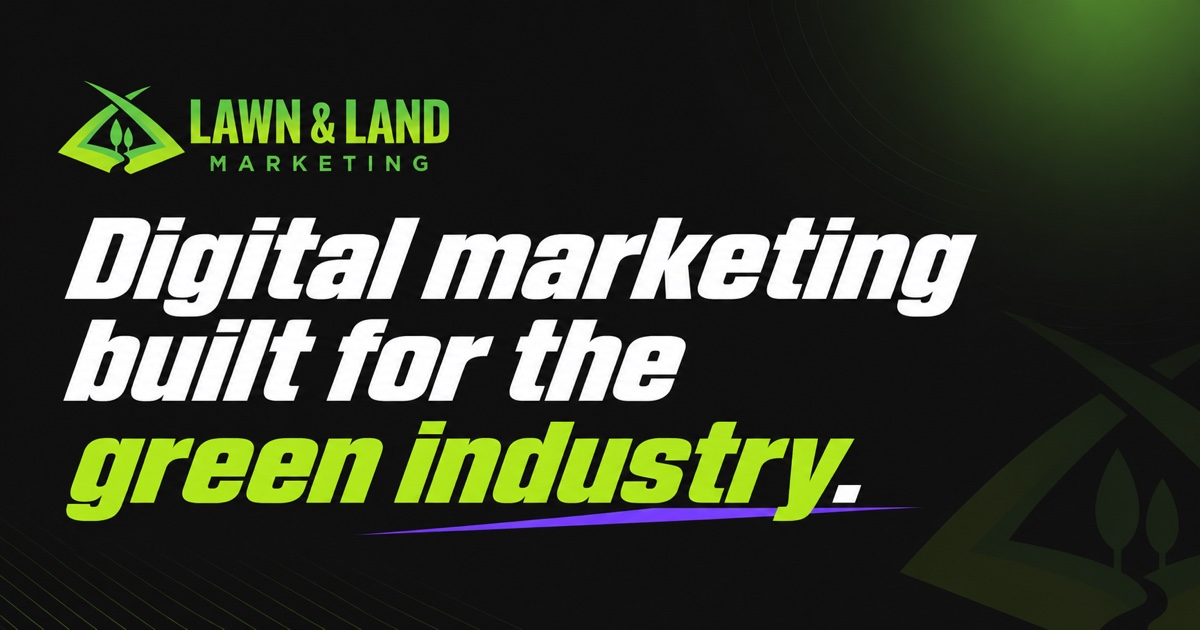
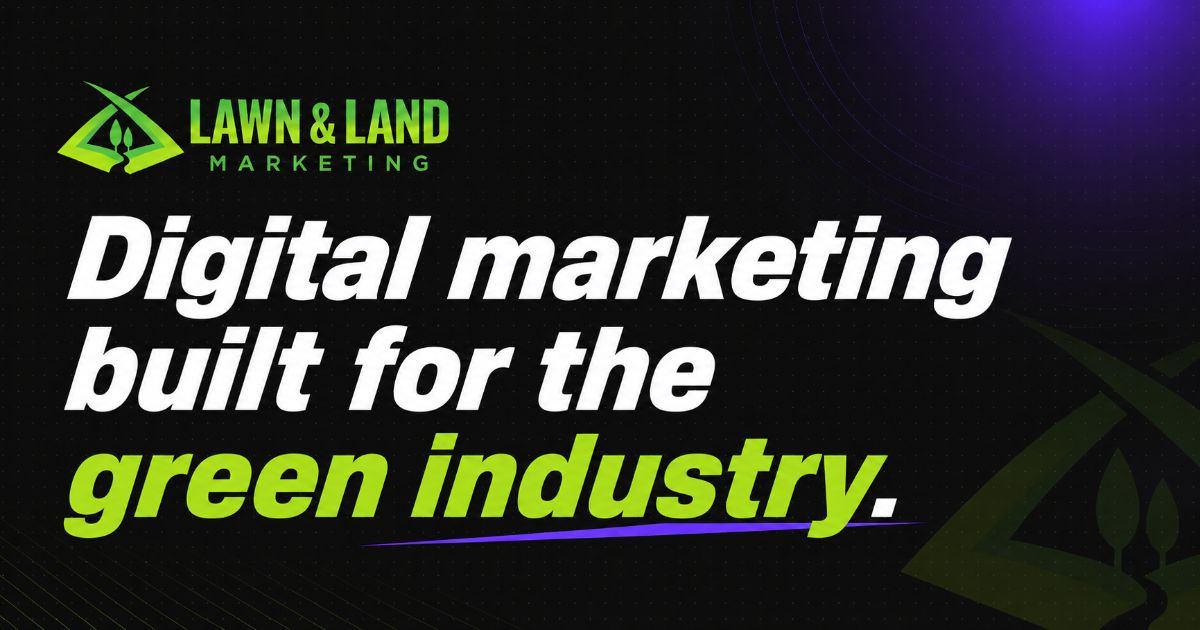
Swap og:image to the updated brand card + cache-bust (?v=2)
Owner provided a refined share card (same 1200x630 layout, richer Twilight-purple glow +
dot texture). Already optimized at 88KB; copied in as assets/images/og-share.jpg with no
re-encode. Bumped the og:image + twitter:image URL to ?v=2 across all 33 pages so social
platforms and any cached link previews fetch the new card instead of the old one.

diff --git a/about/index.html b/about/index.html
@@ -12,11 +12,11 @@
   <meta property="og:type" content="website">
   <meta property="og:url" content="https://new.lawnlab.dev/about/">
   <meta name="twitter:card" content="summary_large_image">
-  <meta property="og:image" content="https://new.lawnlab.dev/assets/images/og-share.jpg">
+  <meta property="og:image" content="https://new.lawnlab.dev/assets/images/og-share.jpg?v=2">
   <meta property="og:image:width" content="1200">
   <meta property="og:image:height" content="630">
   <meta property="og:image:alt" content="Lawn &amp; Land Marketing: digital marketing built for the green industry.">
-  <meta name="twitter:image" content="https://new.lawnlab.dev/assets/images/og-share.jpg">
+  <meta name="twitter:image" content="https://new.lawnlab.dev/assets/images/og-share.jpg?v=2">
   <meta name="twitter:title" content="About Lawn &amp; Land Marketing | Built Only for the Green Industry">
   <meta name="twitter:description" content="The green-industry marketing agency built for the outdoor trades, from lawn and landscape to land clearing, excavation, and septic. Meet the owner and why specialization wins.">
   <script type="application/ld+json">{"@context":"https://schema.org","@graph":[{"@type":"Organization","@id":"https://lawnandlandmarketing.com/#organization","name":"Lawn & Land Marketing","url":"https://lawnandlandmarketing.com","logo":"https://lawnandlandmarketing.com/assets/logos/logo-horizontal.svg","description":"A green-industry marketing agency working exclusively with outdoor-trade companies, from lawn care and landscaping to land clearing, excavation, and septic installation.","foundingDate":"2022","founder":{"@id":"https://lawnandlandmarketing.com/#matt-foreman"},"memberOf":{"@type":"Organization","name":"National Association of Landscape Professionals","alternateName":"NALP","url":"https://www.landscapeprofessionals.org"},"employee":[{"@type":"Person","name":"Sandi Jaramillo","jobTitle":"Director of Client Success"},{"@type":"Person","name":"Juan Calderon","jobTitle":"Operations Manager"},{"@type":"Person","name":"Honey Zamora","jobTitle":"Onboarding Manager"},{"@type":"Person","name":"Damien Friedenthal","jobTitle":"Head of Sales & Marketing"},{"@type":"Person","name":"Anne Venus","jobTitle":"Content Supervisor"},{"@type":"Person","name":"Daisy Llorico","jobTitle":"Website/SEO Specialist"},{"@type":"Person","name":"Jez Pangan","jobTitle":"IT & CRM Specialist"},{"@type":"Person","name":"Matt Jones","jobTitle":"Client Support Specialist"},{"@type":"Person","name":"Nadia Louw","jobTitle":"Google Ads Specialist"},{"@type":"Person","name":"Patricia Caretiro","jobTitle":"Senior Web Developer"}],"areaServed":"United States","telephone":"[phone redacted]","address":{"@type":"PostalAddress","addressLocality":"St. Petersburg","addressRegion":"FL","addressCountry":"US"},"sameAs":["https://www.facebook.com/lawnandlandmarketing","https://www.instagram.com/lawnandlandmarketing","https://www.linkedin.com/company/lawn-and-land-marketing","https://www.youtube.com/@lawnandlandmarketing"]},{"@type":"Person","@id":"https://lawnandlandmarketing.com/#matt-foreman","name":"Matt Foreman","jobTitle":"Founder & Owner","worksFor":{"@id":"https://lawnandlandmarketing.com/#organization"},"description":"Founder and owner of Lawn & Land Marketing. Matt founded the agency Shoot To Thrill Media in 2016 before choosing to focus exclusively on the green industry.","image":"https://lawnandlandmarketing.com/assets/images/matt-foreman.jpg"},{"@type":"AboutPage","@id":"https://lawnandlandmarketing.com/about/#webpage","url":"https://lawnandlandmarketing.com/about/","name":"About Lawn & Land Marketing","description":"The story, mission, and team behind Lawn & Land Marketing, a digital marketing agency built exclusively for the green industry.","about":{"@id":"https://lawnandlandmarketing.com/#organization"},"isPartOf":{"@id":"https://lawnandlandmarketing.com/#organization"}},{"@type":"BreadcrumbList","itemListElement":[{"@type":"ListItem","position":1,"name":"Home","item":"https://lawnandlandmarketing.com/"},{"@type":"ListItem","position":2,"name":"About","item":"https://lawnandlandmarketing.com/about/"}]}]}</script>

diff --git a/case-studies/precision/index.html b/case-studies/precision/index.html
@@ -12,11 +12,11 @@
   <meta property="og:type" content="article">
   <meta property="og:url" content="https://new.lawnlab.dev/case-studies/precision/">
   <meta name="twitter:card" content="summary_large_image">
-  <meta property="og:image" content="https://new.lawnlab.dev/assets/images/og-share.jpg">
+  <meta property="og:image" content="https://new.lawnlab.dev/assets/images/og-share.jpg?v=2">
   <meta property="og:image:width" content="1200">
   <meta property="og:image:height" content="630">
   <meta property="og:image:alt" content="Lawn &amp; Land Marketing: digital marketing built for the green industry.">
-  <meta name="twitter:image" content="https://new.lawnlab.dev/assets/images/og-share.jpg">
+  <meta name="twitter:image" content="https://new.lawnlab.dev/assets/images/og-share.jpg?v=2">
   <meta name="twitter:title" content="How Precision Landscape Management Grew Calls 297% in 5 Months">
   <meta name="twitter:description" content="How a Greenville, SC lawn care and landscaping company grew calls 297% in five months with Lawn &amp; Land Marketing.">
   <script type="application/ld+json">{

diff --git a/case-studies/rock-solid/index.html b/case-studies/rock-solid/index.html
@@ -12,11 +12,11 @@
   <meta property="og:type" content="article">
   <meta property="og:url" content="https://new.lawnlab.dev/case-studies/rock-solid/">
   <meta name="twitter:card" content="summary_large_image">
-  <meta property="og:image" content="https://new.lawnlab.dev/assets/images/og-share.jpg">
+  <meta property="og:image" content="https://new.lawnlab.dev/assets/images/og-share.jpg?v=2">
   <meta property="og:image:width" content="1200">
   <meta property="og:image:height" content="630">
   <meta property="og:image:alt" content="Lawn &amp; Land Marketing: digital marketing built for the green industry.">
-  <meta name="twitter:image" content="https://new.lawnlab.dev/assets/images/og-share.jpg">
+  <meta name="twitter:image" content="https://new.lawnlab.dev/assets/images/og-share.jpg?v=2">
   <meta name="twitter:title" content="How Rock Solid Landscape Crossed Seven Figures in a Year">
   <meta name="twitter:description" content="How a Wauseon, OH landscaper grew from about $700K to $1.4M in its first full year with Lawn &amp; Land Marketing, through local SEO.">
   <script type="application/ld+json">{

diff --git a/client-results/index.html b/client-results/index.html
@@ -12,11 +12,11 @@
   <meta property="og:type" content="website">
   <meta property="og:url" content="https://new.lawnlab.dev/client-results/">
   <meta name="twitter:card" content="summary_large_image">
-  <meta property="og:image" content="https://new.lawnlab.dev/assets/images/og-share.jpg">
+  <meta property="og:image" content="https://new.lawnlab.dev/assets/images/og-share.jpg?v=2">
   <meta property="og:image:width" content="1200">
   <meta property="og:image:height" content="630">
   <meta property="og:image:alt" content="Lawn &amp; Land Marketing: digital marketing built for the green industry.">
-  <meta name="twitter:image" content="https://new.lawnlab.dev/assets/images/og-share.jpg">
+  <meta name="twitter:image" content="https://new.lawnlab.dev/assets/images/og-share.jpg?v=2">
   <meta name="twitter:title" content="Client Results | Companies We've Grown | Lawn &amp; Land Marketing">
   <meta name="twitter:description" content="Real green-industry companies, real numbers. Deep case studies plus our broader client roster.">
   <script type="application/ld+json">{

diff --git a/contact/index.html b/contact/index.html
@@ -12,11 +12,11 @@
   <meta property="og:type" content="website">
   <meta property="og:url" content="https://new.lawnlab.dev/contact/">
   <meta name="twitter:card" content="summary_large_image">
-  <meta property="og:image" content="https://new.lawnlab.dev/assets/images/og-share.jpg">
+  <meta property="og:image" content="https://new.lawnlab.dev/assets/images/og-share.jpg?v=2">
   <meta property="og:image:width" content="1200">
   <meta property="og:image:height" content="630">
   <meta property="og:image:alt" content="Lawn &amp; Land Marketing: digital marketing built for the green industry.">
-  <meta name="twitter:image" content="https://new.lawnlab.dev/assets/images/og-share.jpg">
+  <meta name="twitter:image" content="https://new.lawnlab.dev/assets/images/og-share.jpg?v=2">
   <meta name="twitter:title" content="Contact Lawn &amp; Land Marketing | Get in Touch">
   <meta name="twitter:description" content="Book a free strategy call, send us a message, or reach the green-industry marketing team directly.">
   <script type="application/ld+json">{"@context":"https://schema.org","@graph":[{"@type":"ContactPage","@id":"https://lawnandlandmarketing.com/contact/#webpage","url":"https://lawnandlandmarketing.com/contact/","name":"Contact Lawn & Land Marketing","isPartOf":{"@id":"https://lawnandlandmarketing.com/#organization"},"about":{"@id":"https://lawnandlandmarketing.com/#organization"}},{"@type":"Organization","@id":"https://lawnandlandmarketing.com/#organization","name":"Lawn & Land Marketing","url":"https://lawnandlandmarketing.com","logo":"https://lawnandlandmarketing.com/assets/logos/logo-horizontal.svg","email":"[email redacted]","telephone":"[phone redacted]","address":{"@type":"PostalAddress","addressLocality":"St. Petersburg","addressRegion":"FL","addressCountry":"US"},"contactPoint":{"@type":"ContactPoint","contactType":"customer service","telephone":"[phone redacted]","email":"[email redacted]","areaServed":"US"},"sameAs":["https://www.facebook.com/lawnandlandmarketing","https://www.instagram.com/lawnandlandmarketing","https://www.linkedin.com/company/lawn-and-land-marketing","https://www.youtube.com/@lawnandlandmarketing"]},{"@type":"BreadcrumbList","itemListElement":[{"@type":"ListItem","position":1,"name":"Home","item":"https://lawnandlandmarketing.com/"},{"@type":"ListItem","position":2,"name":"Contact","item":"https://lawnandlandmarketing.com/contact/"}]}]}</script>

diff --git a/get-started/book-strategy-call/index.html b/get-started/book-strategy-call/index.html
@@ -11,11 +11,11 @@
   <meta property="og:description" content="Book a free 20-minute strategy call with Lawn & Land Marketing. Get clarity on how to grow your green-industry company.">
   <meta property="og:url" content="https://new.lawnlab.dev/get-started/book-strategy-call/">
   <meta name="twitter:card" content="summary_large_image">
-  <meta property="og:image" content="https://new.lawnlab.dev/assets/images/og-share.jpg">
+  <meta property="og:image" content="https://new.lawnlab.dev/assets/images/og-share.jpg?v=2">
   <meta property="og:image:width" content="1200">
   <meta property="og:image:height" content="630">
   <meta property="og:image:alt" content="Lawn &amp; Land Marketing: digital marketing built for the green industry.">
-  <meta name="twitter:image" content="https://new.lawnlab.dev/assets/images/og-share.jpg">
+  <meta name="twitter:image" content="https://new.lawnlab.dev/assets/images/og-share.jpg?v=2">
   <meta name="twitter:title" content="Book a Free Strategy Call | Lawn &amp; Land Marketing">
   <meta name="twitter:description" content="Book a free 20-minute strategy call with Lawn & Land Marketing. Get clarity on how to grow your green-industry company.">
   <meta property="og:type" content="website">

diff --git a/index.html b/index.html
@@ -12,11 +12,11 @@
   <meta property="og:type" content="website">
   <meta property="og:url" content="https://lawnandlandmarketing.com/">
   <meta name="twitter:card" content="summary_large_image">
-  <meta property="og:image" content="https://new.lawnlab.dev/assets/images/og-share.jpg">
+  <meta property="og:image" content="https://new.lawnlab.dev/assets/images/og-share.jpg?v=2">
   <meta property="og:image:width" content="1200">
   <meta property="og:image:height" content="630">
   <meta property="og:image:alt" content="Lawn &amp; Land Marketing: digital marketing built for the green industry.">
-  <meta name="twitter:image" content="https://new.lawnlab.dev/assets/images/og-share.jpg">
+  <meta name="twitter:image" content="https://new.lawnlab.dev/assets/images/og-share.jpg?v=2">
   <meta name="twitter:title" content="Landscaping Marketing Agency | Lawn & Land Marketing">
   <meta name="twitter:description" content="The only digital marketing agency built exclusively for lawn care &amp; landscaping companies: websites, SEO, Google Ads &amp; Meta Ads. Book a free strategy call.">
   <link rel="icon" type="image/svg+xml" href="/assets/logos/logo-badge.svg">

diff --git a/industries/excavation/index.html b/industries/excavation/index.html
@@ -12,11 +12,11 @@
   <meta property="og:type" content="website">
   <meta property="og:url" content="https://new.lawnlab.dev/industries/excavation/">
   <meta name="twitter:card" content="summary_large_image">
-  <meta property="og:image" content="https://new.lawnlab.dev/assets/images/og-share.jpg">
+  <meta property="og:image" content="https://new.lawnlab.dev/assets/images/og-share.jpg?v=2">
   <meta property="og:image:width" content="1200">
   <meta property="og:image:height" content="630">
   <meta property="og:image:alt" content="Lawn &amp; Land Marketing: digital marketing built for the green industry.">
-  <meta name="twitter:image" content="https://new.lawnlab.dev/assets/images/og-share.jpg">
+  <meta name="twitter:image" content="https://new.lawnlab.dev/assets/images/og-share.jpg?v=2">
   <meta name="twitter:title" content="Excavation &amp; Site-Prep Marketing for Contractors | Lawn &amp; Land Marketing">
   <meta name="twitter:description" content="Marketing built around how excavation work actually comes in, two buyers, dig-season reality, and the bid. Keep the iron working.">
   <script type="application/ld+json">{

diff --git a/industries/holiday-lighting/index.html b/industries/holiday-lighting/index.html
@@ -12,11 +12,11 @@
   <meta property="og:type" content="website">
   <meta property="og:url" content="https://new.lawnlab.dev/industries/holiday-lighting/">
   <meta name="twitter:card" content="summary_large_image">
-  <meta property="og:image" content="https://new.lawnlab.dev/assets/images/og-share.jpg">
+  <meta property="og:image" content="https://new.lawnlab.dev/assets/images/og-share.jpg?v=2">
   <meta property="og:image:width" content="1200">
   <meta property="og:image:height" content="630">
   <meta property="og:image:alt" content="Lawn &amp; Land Marketing: digital marketing built for the green industry.">
-  <meta name="twitter:image" content="https://new.lawnlab.dev/assets/images/og-share.jpg">
+  <meta name="twitter:image" content="https://new.lawnlab.dev/assets/images/og-share.jpg?v=2">
   <meta name="twitter:title" content="Holiday Lighting Marketing for Christmas Light Installers | Lawn &amp; Land Marketing">
   <meta name="twitter:description" content="Marketing built around the holiday lighting season, pre-sell, book before the rush, and re-book every year. Permanent lighting keeps you booking all year.">
   <script type="application/ld+json">{

diff --git a/industries/index.html b/industries/index.html
@@ -12,11 +12,11 @@
   <meta property="og:type" content="website">
   <meta property="og:url" content="https://new.lawnlab.dev/industries/">
   <meta name="twitter:card" content="summary_large_image">
-  <meta property="og:image" content="https://new.lawnlab.dev/assets/images/og-share.jpg">
+  <meta property="og:image" content="https://new.lawnlab.dev/assets/images/og-share.jpg?v=2">
   <meta property="og:image:width" content="1200">
   <meta property="og:image:height" content="630">
   <meta property="og:image:alt" content="Lawn &amp; Land Marketing: digital marketing built for the green industry.">
-  <meta name="twitter:image" content="https://new.lawnlab.dev/assets/images/og-share.jpg">
+  <meta name="twitter:image" content="https://new.lawnlab.dev/assets/images/og-share.jpg?v=2">
   <meta name="twitter:title" content="Industries We Serve | Lawn &amp; Land Marketing">
   <meta name="twitter:description" content="We market one industry and one only. Find the green-industry trade we grow for you.">
   <script type="application/ld+json">{"@context":"https://schema.org","@type":"ItemList","name":"Green-Industry Trades Lawn & Land Marketing Serves","itemListElement":[{"@type":"ListItem","position":1,"name":"Landscaping","url":"https://lawnandlandmarketing.com/industries/landscaping/"},{"@type":"ListItem","position":2,"name":"Outdoor Living","url":"https://lawnandlandmarketing.com/industries/outdoor-living/"},{"@type":"ListItem","position":3,"name":"Lawn Care","url":"https://lawnandlandmarketing.com/industries/lawn-care/"},{"@type":"ListItem","position":4,"name":"Lawn Maintenance","url":"https://lawnandlandmarketing.com/industries/lawn-maintenance/"},{"@type":"ListItem","position":5,"name":"Land Clearing","url":"https://lawnandlandmarketing.com/industries/land-clearing/"},{"@type":"ListItem","position":6,"name":"Excavation","url":"https://lawnandlandmarketing.com/industries/excavation/"},{"@type":"ListItem","position":7,"name":"Septic Installation","url":"https://lawnandlandmarketing.com/industries/septic-installation/"},{"@type":"ListItem","position":8,"name":"Holiday Lighting","url":"https://lawnandlandmarketing.com/industries/holiday-lighting/"}]}</script>

diff --git a/industries/land-clearing/index.html b/industries/land-clearing/index.html
@@ -12,11 +12,11 @@
   <meta property="og:type" content="website">
   <meta property="og:url" content="https://new.lawnlab.dev/industries/land-clearing/">
   <meta name="twitter:card" content="summary_large_image">
-  <meta property="og:image" content="https://new.lawnlab.dev/assets/images/og-share.jpg">
+  <meta property="og:image" content="https://new.lawnlab.dev/assets/images/og-share.jpg?v=2">
   <meta property="og:image:width" content="1200">
   <meta property="og:image:height" content="630">
   <meta property="og:image:alt" content="Lawn &amp; Land Marketing: digital marketing built for the green industry.">
-  <meta name="twitter:image" content="https://new.lawnlab.dev/assets/images/og-share.jpg">
+  <meta name="twitter:image" content="https://new.lawnlab.dev/assets/images/og-share.jpg?v=2">
   <meta name="twitter:title" content="Land Clearing &amp; Forestry Mulching Marketing for Contractors | Lawn &amp; Land Marketing">
   <meta name="twitter:description" content="Marketing built around how land clearing work actually comes in, a fuller pipeline of bigger jobs, forestry mulching, and the bid.">
   <script type="application/ld+json">{

diff --git a/industries/landscaping/index.html b/industries/landscaping/index.html
@@ -12,11 +12,11 @@
   <meta property="og:type" content="website">
   <meta property="og:url" content="https://new.lawnlab.dev/industries/landscaping/">
   <meta name="twitter:card" content="summary_large_image">
-  <meta property="og:image" content="https://new.lawnlab.dev/assets/images/og-share.jpg">
+  <meta property="og:image" content="https://new.lawnlab.dev/assets/images/og-share.jpg?v=2">
   <meta property="og:image:width" content="1200">
   <meta property="og:image:height" content="630">
   <meta property="og:image:alt" content="Lawn &amp; Land Marketing: digital marketing built for the green industry.">
-  <meta name="twitter:image" content="https://new.lawnlab.dev/assets/images/og-share.jpg">
+  <meta name="twitter:image" content="https://new.lawnlab.dev/assets/images/og-share.jpg?v=2">
   <meta name="twitter:title" content="Landscaping Marketing for Design-Build Companies | Lawn &amp; Land Marketing">
   <meta name="twitter:description" content="Marketing built around how landscaping companies actually sell (design, install, and maintenance) ahead of the seasons.">
   <script type="application/ld+json">{